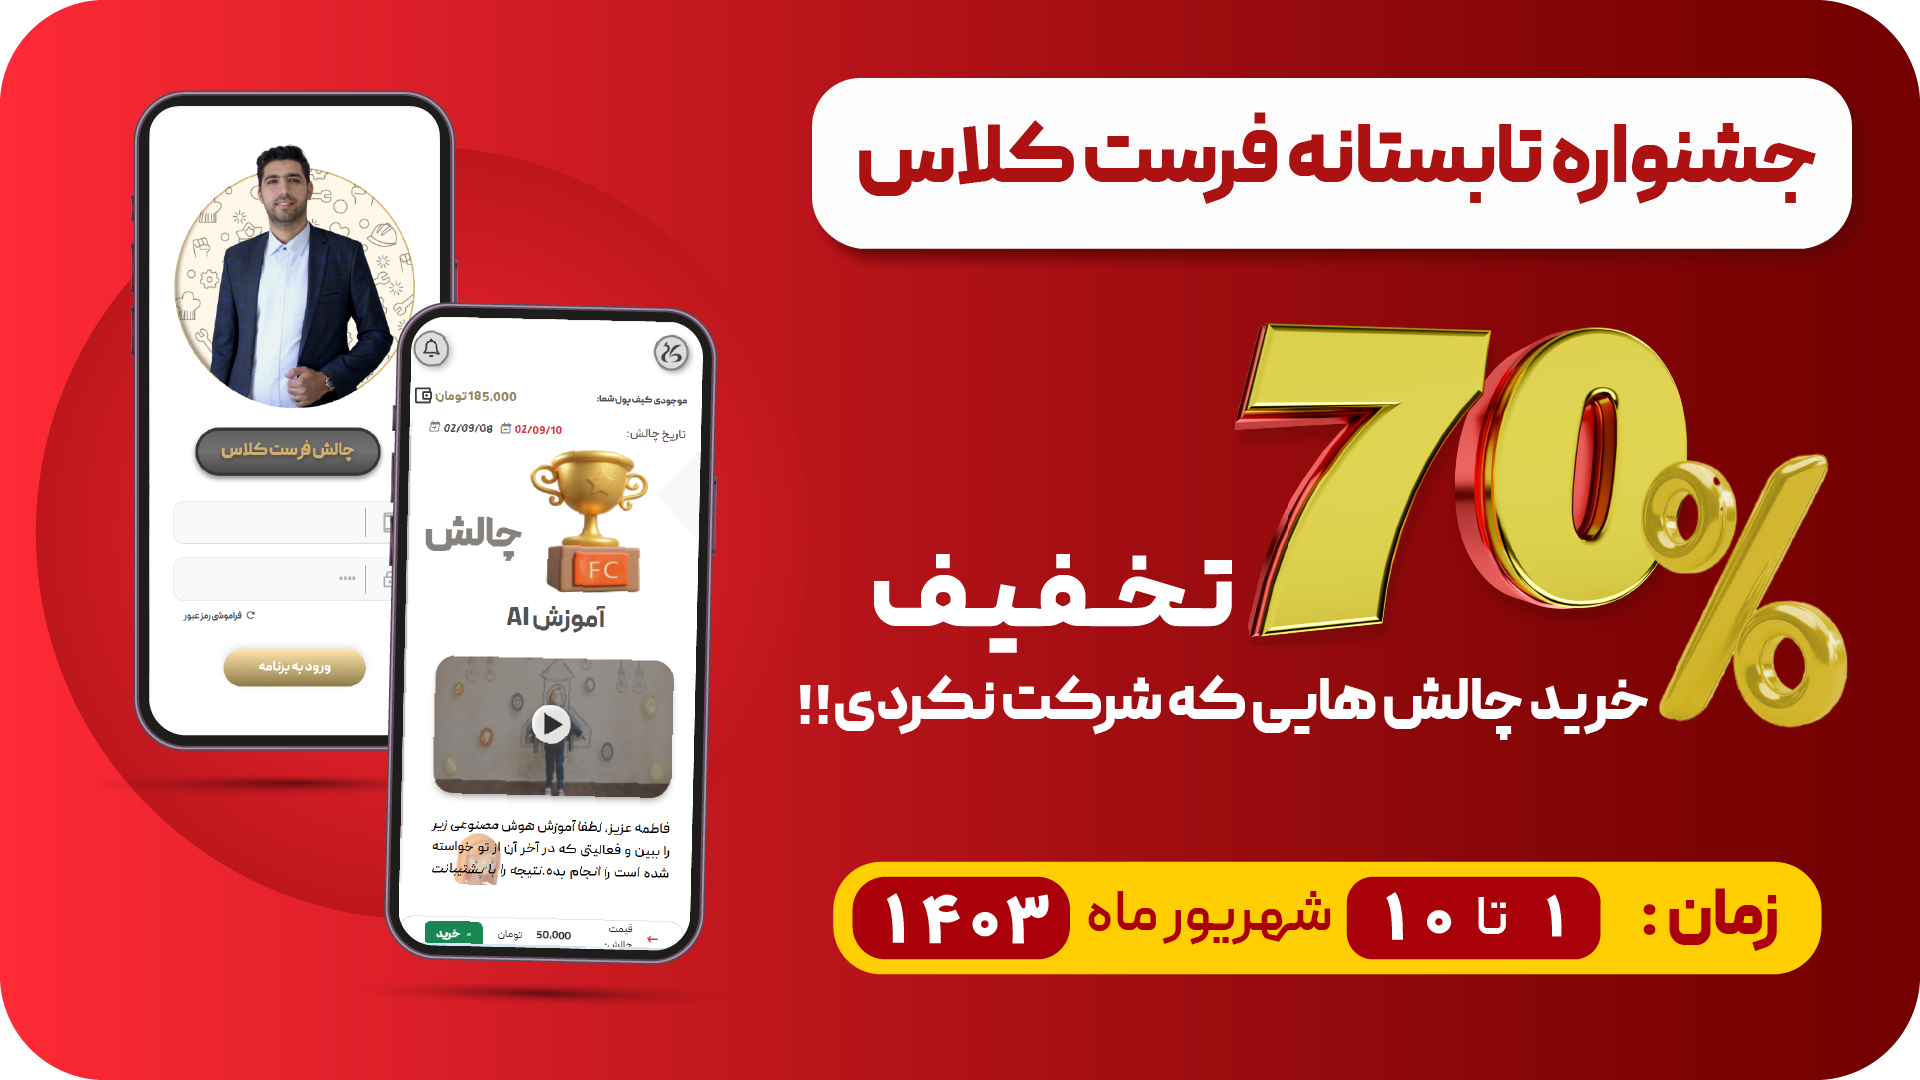
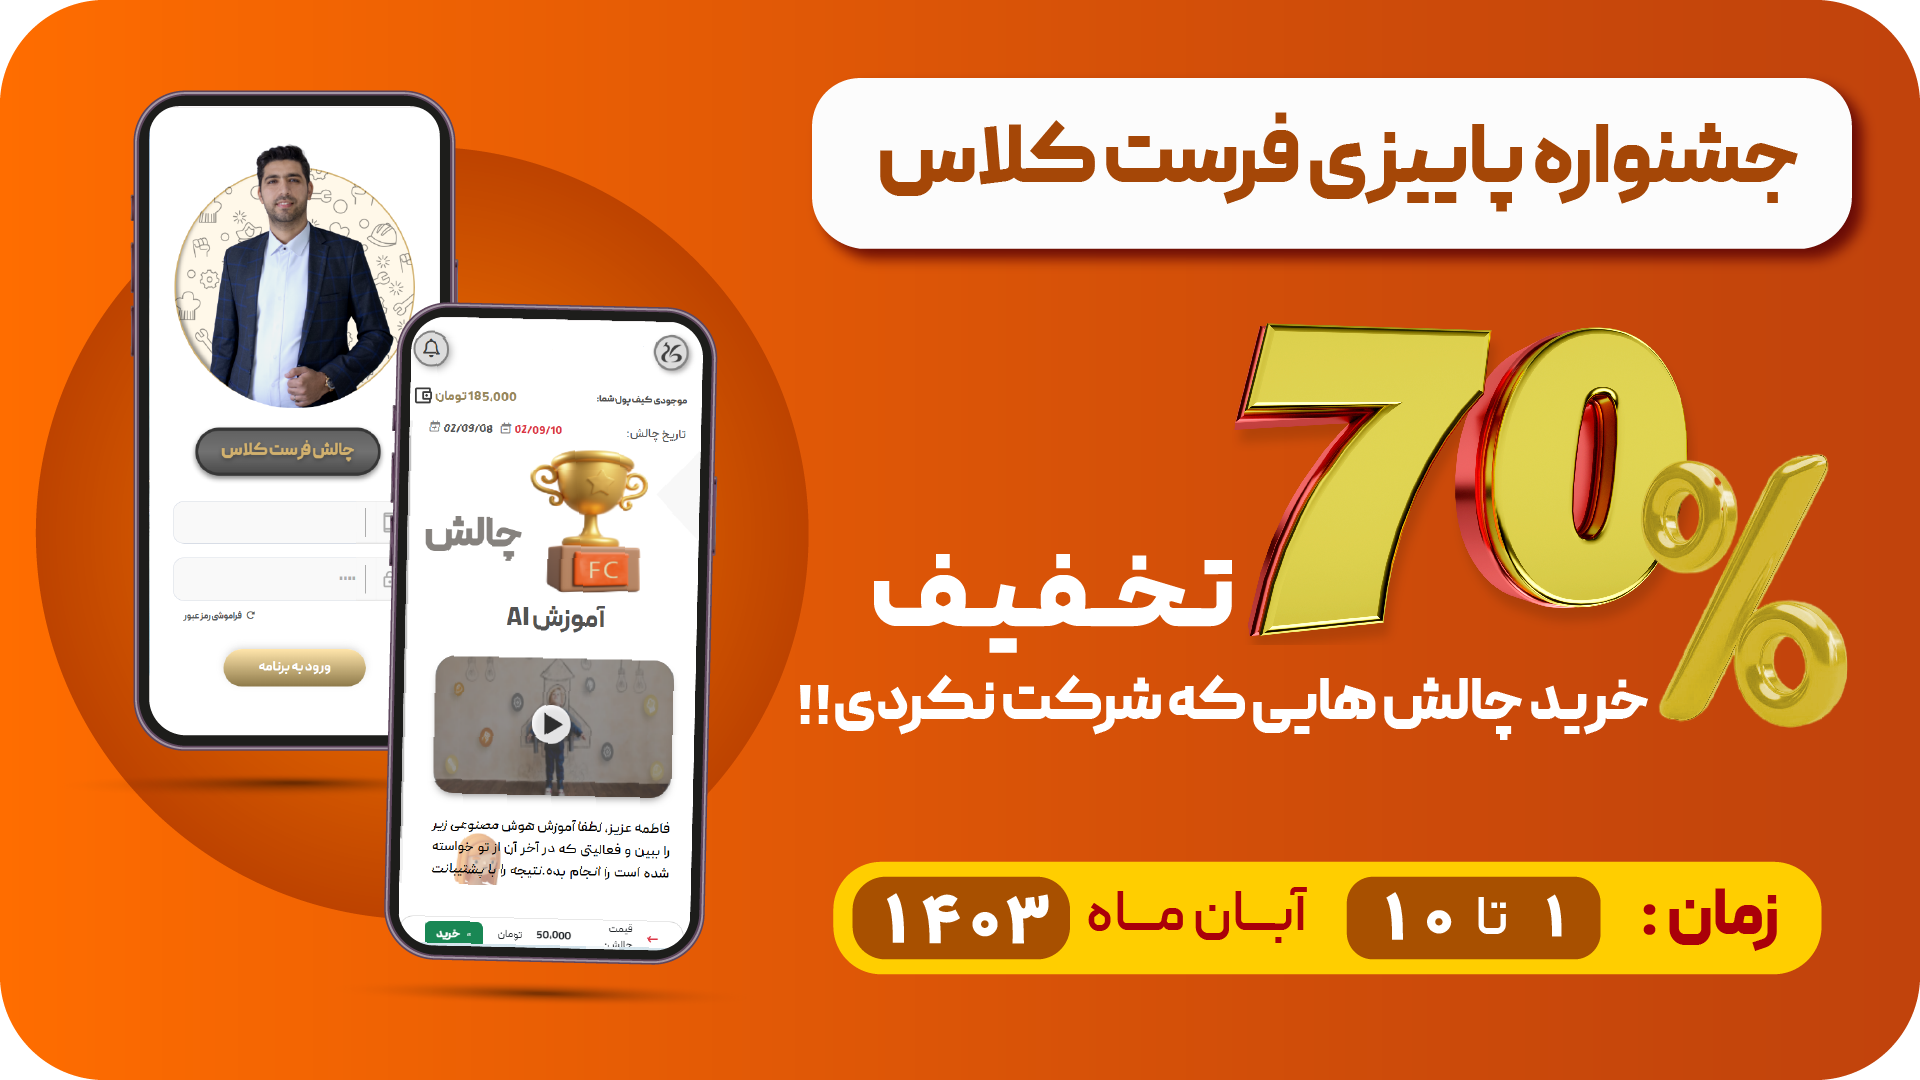
add autumn offer

diff --git a/resources/views/layouts/app.blade.php b/resources/views/layouts/app.blade.php
@@ -584,16 +584,16 @@
                         @endif
 
                        
-                            if ((localStorage.getItem('popupShowOff')??0) <5 )
+                            if ((localStorage.getItem('ShowOffAutumn')??0) <5 )
                             {
-                                var startDate = new Date(2024, 7, 21,23,59);
-                                var targetDate = new Date(2024, 7, 31,19,30);
+                                var startDate = new Date(2024, 9, 12,10,59);
+                                var targetDate = new Date(2024, 9, 31,19,30);
                                 var currentDate = new Date();
 
                                 if (currentDate >= startDate && currentDate <= targetDate && @if(\Route::currentRouteName()!="history") 1 @else 0 @endif) 
                                 {
                                     Swal.fire({
-                                        imageUrl: "{{asset('img/offer.png')}}",
+                                        imageUrl: "{{asset('img/offer.png?120')}}",
                                         //imageHeight: '100%',
                                         background: 'transparent',
                                         padding:0,
@@ -606,7 +606,7 @@
                                         allowOutsideClick:false,
                                         });
                                         document.querySelector('.swal2-image').addEventListener('click', function() {location.href='{{route('history')}}';});
-                                    localStorage.setItem('popupShowOff', parseInt(localStorage.getItem('popupShowOff')??0)+1);
+                                    localStorage.setItem('ShowOffAutumn', parseInt(localStorage.getItem('ShowOffAutumn')??0)+1);
                                 }
                             }
                         

diff --git a/resources/views/layouts/childApp.blade.php b/resources/views/layouts/childApp.blade.php
@@ -577,16 +577,16 @@
                     
 
                        
-                        if ((localStorage.getItem('popupShowOff')??0) <5 )
+                        if ((localStorage.getItem('ShowOffAutumn')??0) <5 )
                             {
-                                var startDate = new Date(2024, 7, 21,23,59);
-                                var targetDate = new Date(2024, 7, 31,19,30);
+                                var startDate = new Date(2024, 9, 12,10,59);
+                                var targetDate = new Date(2024, 9, 31,19,30);
                                 var currentDate = new Date();
 
                                 if (currentDate >= startDate && currentDate <= targetDate && @if(\Route::currentRouteName()!="history") 1 @else 0 @endif) 
                                 {
                                     Swal.fire({
-                                        imageUrl: "{{asset('img/offer.png')}}",
+                                        imageUrl: "{{asset('img/offer.png?120')}}",
                                         //imageHeight: '100%',
                                         background: 'transparent',
                                         padding:0,
@@ -599,7 +599,7 @@
                                         allowOutsideClick:false,
                                         });
                                         document.querySelector('.swal2-image').addEventListener('click', function() {location.href='{{route('history')}}';});
-                                    localStorage.setItem('popupShowOff', parseInt(localStorage.getItem('popupShowOff')??0)+1);
+                                    localStorage.setItem('ShowOffAutumn', parseInt(localStorage.getItem('ShowOffAutumn')??0)+1);
                                 }
                             }
                         

diff --git a/resources/views/panel/teenager/history.blade.php b/resources/views/panel/teenager/history.blade.php
@@ -188,14 +188,14 @@
             font-family: 'Peyda';
         }
        .offer {
-        background-color: red;
+        background: linear-gradient(228deg,#f76801,#dc5507);
         border-radius: 0 0 25% 25%;
         padding: 4%;
         margin-top: -1rem;
         margin-left: 8px;
         height: 2rem;
         width: 2rem;
-        border: 1px dotted #910707;
+        border: 1px dotted #dc5507;
 
         }
     </style>
@@ -218,8 +218,8 @@
      @if($challs->count())
             @php
                 $current=now();//date_create(date('Y-m-d H:i:s'));
-                $startdate=date_create('2024-08-22 00:00:00');
-                $enddate=date_create('2024-08-31 23:59:59');
+                $startdate=date_create('2024-10-22 00:00:00');
+                $enddate=date_create('2024-11-01 00:00:00');
             @endphp
             @foreach ($challs as $item) 
             <div class="card mt-2 p-md-3 @if($item['Status']==5) bg-danger-subtle Doned @elseif($item['Done']) bg-success-subtle Doned @elseif($item['Pay']) Payed @else Other @endif " onclick="location.href='{{route('chall.details',[$item['Id']])}}'">

diff --git a/resources/views/panel/child/history.blade.php b/resources/views/panel/child/history.blade.php
@@ -197,14 +197,14 @@
             font-family: 'Peyda';
         }
        .offer {
-        background-color: red;
+        background: linear-gradient(228deg,#f76801,#dc5507);
         border-radius: 0 0 25% 25%;
         padding: 4%;
         margin-top: -0.75rem;
         margin-left: 8px;
         height: 2rem;
         width: 2rem;
-        border: 1px dotted #910707;
+        border: 1px dotted #dc5507;
 
         }
     </style>
@@ -229,8 +229,8 @@
      @if($challs->count())
             @php
             $current=now();//date_create(date('Y-m-d H:i:s'));
-            $startdate=date_create('2024-08-22 00:00:00');
-            $enddate=date_create('2024-08-31 23:59:59');
+            $startdate=date_create('2024-10-22 00:00:00');
+            $enddate=date_create('2024-11-01 00:00:00');
             @endphp
             @foreach ($challs as $item) 
             <div class="card col-5 mt-2 p-md-3 @if($item['Status']==5) bg-danger-subtle Doned @elseif($item['Done']) bg-success-subtle Doned @elseif($item['Pay']) Payed @else Other @endif " onclick="location.href='{{route('chall.details',[$item['Id']])}}'">

diff --git a/resources/views/panel/teenager/detailes.blade.php b/resources/views/panel/teenager/detailes.blade.php
@@ -378,14 +378,14 @@ video
             height: 23px;
         }
 .offer {
-        background-color: red;
+        background: linear-gradient(228deg,#f76801,#dc5507);
         border-radius: 0 0 25% 25%;
         padding: 3%;
         margin-top: -1rem;
         margin-left: 8px;
         height: 0.5rem;
         width: 0.5rem;
-        border: 1px dotted #910707;
+        border: 1px dotted #dc5507;
 
         }
 </style>
@@ -604,8 +604,8 @@ video
               $price=50000;
             
               $current=now();//date_create(date('Y-m-d H:i:s'));
-              $startdate=date_create('2024-08-22 00:00:00');
-              $enddate=date_create('2024-08-31 23:59:59');
+              $startdate=date_create('2024-10-22 00:00:00');
+              $enddate=date_create('2024-11-01 00:00:00');
 
               $discount=false;
               if($current->between($startdate,$enddate) && $price==50000)

diff --git a/resources/views/panel/child/detailes.blade.php b/resources/views/panel/child/detailes.blade.php
@@ -394,14 +394,14 @@
             height: 23px;
         }
 .offer {
-        background-color: red;
+        background: linear-gradient(228deg,#f76801,#dc5507);
         border-radius: 0 0 25% 25%;
         padding: 3%;
         margin-top: -1rem;
         margin-left: 8px;
         height: 0.5rem;
         width: 0.5rem;
-        border: 1px dotted #910707;
+        border: 1px dotted #dc5507;
 
         }
 </style>
@@ -621,8 +621,8 @@
               $price=50000;
             
               $current=now();//date_create(date('Y-m-d H:i:s'));
-              $startdate=date_create('2024-08-22 00:00:00');
-              $enddate=date_create('2024-08-31 23:59:59');
+              $startdate=date_create('2024-10-22 00:00:00');
+              $enddate=date_create('2024-11-01 00:00:00');
 
               $discount=false;
               if($current->between($startdate,$enddate) && $price==50000)

diff --git a/resources/views/panel/direct/chat.blade.php b/resources/views/panel/direct/chat.blade.php
@@ -378,7 +378,7 @@
     border-radius: 23px;
     /* box-shadow: 0px 6px 10px -5px #1a18188f; */
     object-fit: scale-down;
-    background-color: #fff;;
+    background-color: #fff;
 }
     </style>
 @endsection
@@ -1693,7 +1693,7 @@
           {
             if(msg[0].Message)
             {
-            var body=msg[0].Message.replace("\n"," ").substring(0,20);;
+            var body=msg[0].Message.replace("\n"," ").substring(0,20);
             if(msg[0].Message.replace("\n"," ").length>20)
             body+='...';
             }

diff --git a/resources/views/panel/direct/chat_child.blade.php b/resources/views/panel/direct/chat_child.blade.php
@@ -378,7 +378,7 @@
     border-radius: 23px;
     /* box-shadow: 0px 6px 10px -5px #1a18188f; */
     object-fit: scale-down;
-    background-color: #fff;;
+    background-color: #fff;
 }
     </style>
 @endsection
@@ -1693,7 +1693,7 @@
           {
             if(msg[0].Message)
             {
-            var body=msg[0].Message.replace("\n"," ").substring(0,20);;
+            var body=msg[0].Message.replace("\n"," ").substring(0,20);
             if(msg[0].Message.replace("\n"," ").length>20)
             body+='...';
             }

diff --git a/resources/views/panel/child/chat.blade.php b/resources/views/panel/child/chat.blade.php
@@ -379,7 +379,7 @@
     border-radius: 23px;
     /* box-shadow: 0px 6px 10px -5px #1a18188f; */
     object-fit: scale-down;
-    background-color: #fff;;
+    background-color: #fff;
 }
     </style>
 @endsection
@@ -1902,7 +1902,7 @@
           {
             if(msg[0].Body)
             {
-            var body=msg[0].Body.replace("\n"," ").substring(0,20);;
+            var body=msg[0].Body.replace("\n"," ").substring(0,20);
             if(msg[0].Body.replace("\n"," ").length>20)
             body+='...';
             }

diff --git a/resources/views/panel/teenager/chat.blade.php b/resources/views/panel/teenager/chat.blade.php
@@ -378,7 +378,7 @@
     border-radius: 23px;
     /* box-shadow: 0px 6px 10px -5px #1a18188f; */
     object-fit: scale-down;
-    background-color: #fff;;
+    background-color: #fff;
 }
     </style>
 @endsection
@@ -1901,7 +1901,7 @@
           {
             if(msg[0].Body)
             {
-            var body=msg[0].Body.replace("\n"," ").substring(0,20);;
+            var body=msg[0].Body.replace("\n"," ").substring(0,20);
             if(msg[0].Body.replace("\n"," ").length>20)
             body+='...';
             }

diff --git a/resources/views/panel/child/cloud/index.blade.php b/resources/views/panel/child/cloud/index.blade.php
@@ -380,7 +380,7 @@
     border-radius: 23px;
     /* box-shadow: 0px 6px 10px -5px #1a18188f; */
     object-fit: scale-down;
-    background-color: #fff;;
+    background-color: #fff;
 }
     </style>
 @endsection

diff --git a/resources/views/panel/child/cloud/list.blade.php b/resources/views/panel/child/cloud/list.blade.php
@@ -384,7 +384,7 @@
     border-radius: 23px;
     /* box-shadow: 0px 6px 10px -5px #1a18188f; */
     object-fit: scale-down;
-    background-color: #fff;;
+    background-color: #fff;
 }
     </style>
 @endsection
